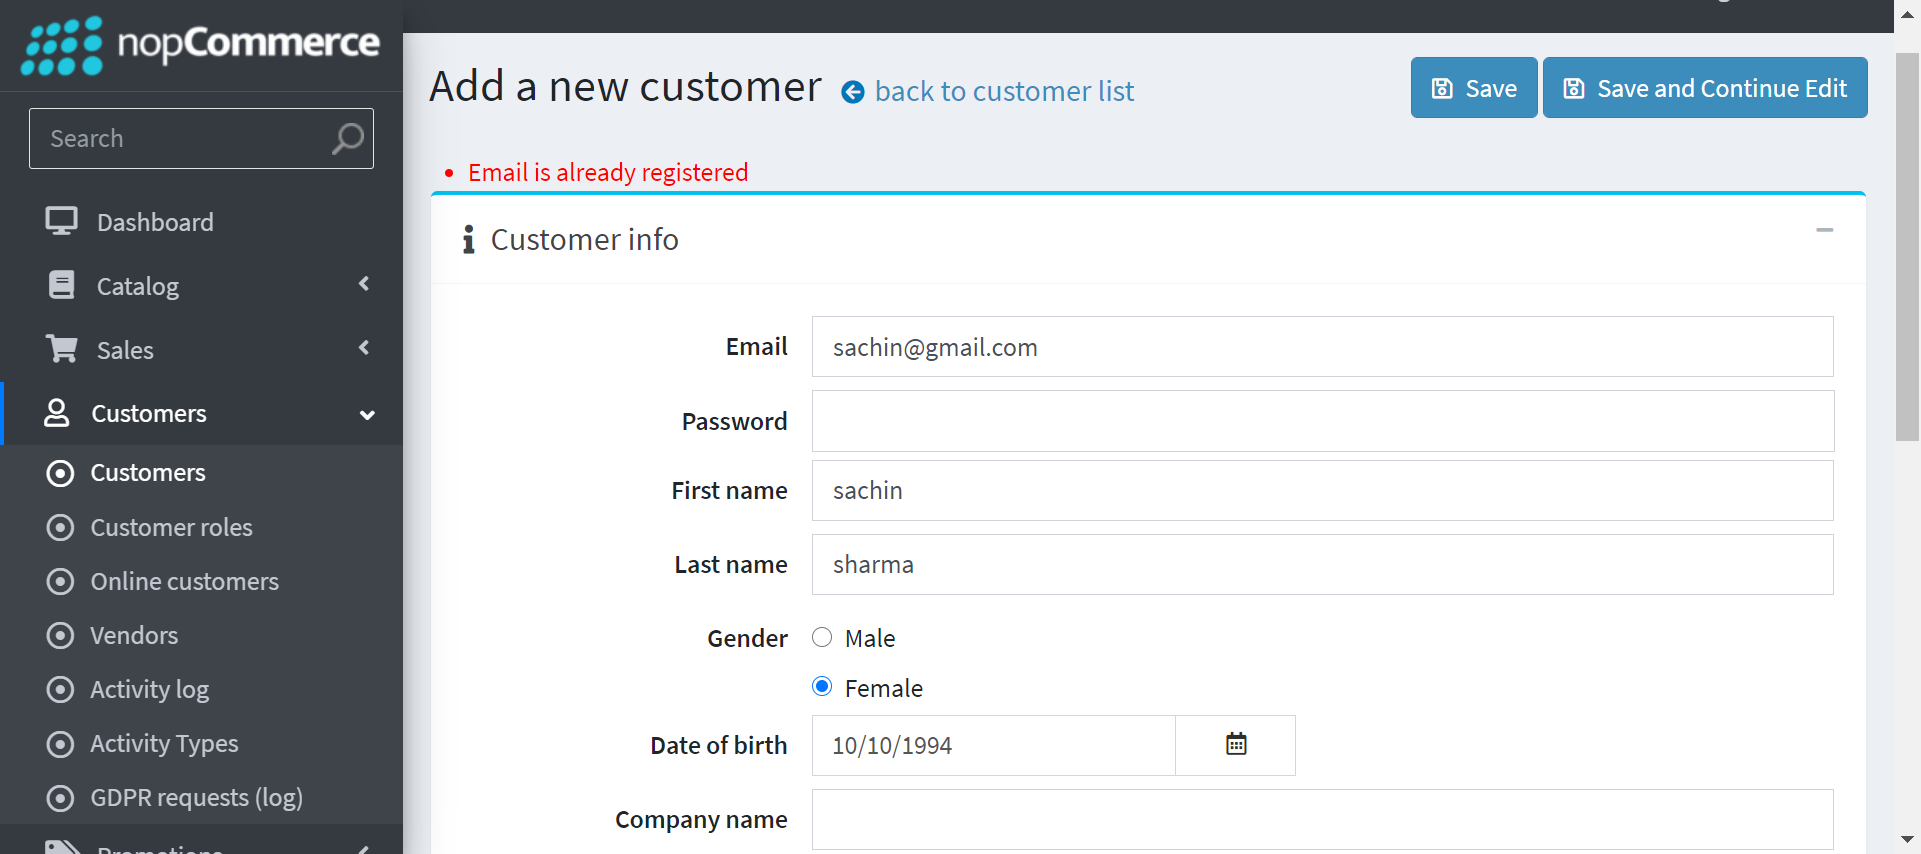
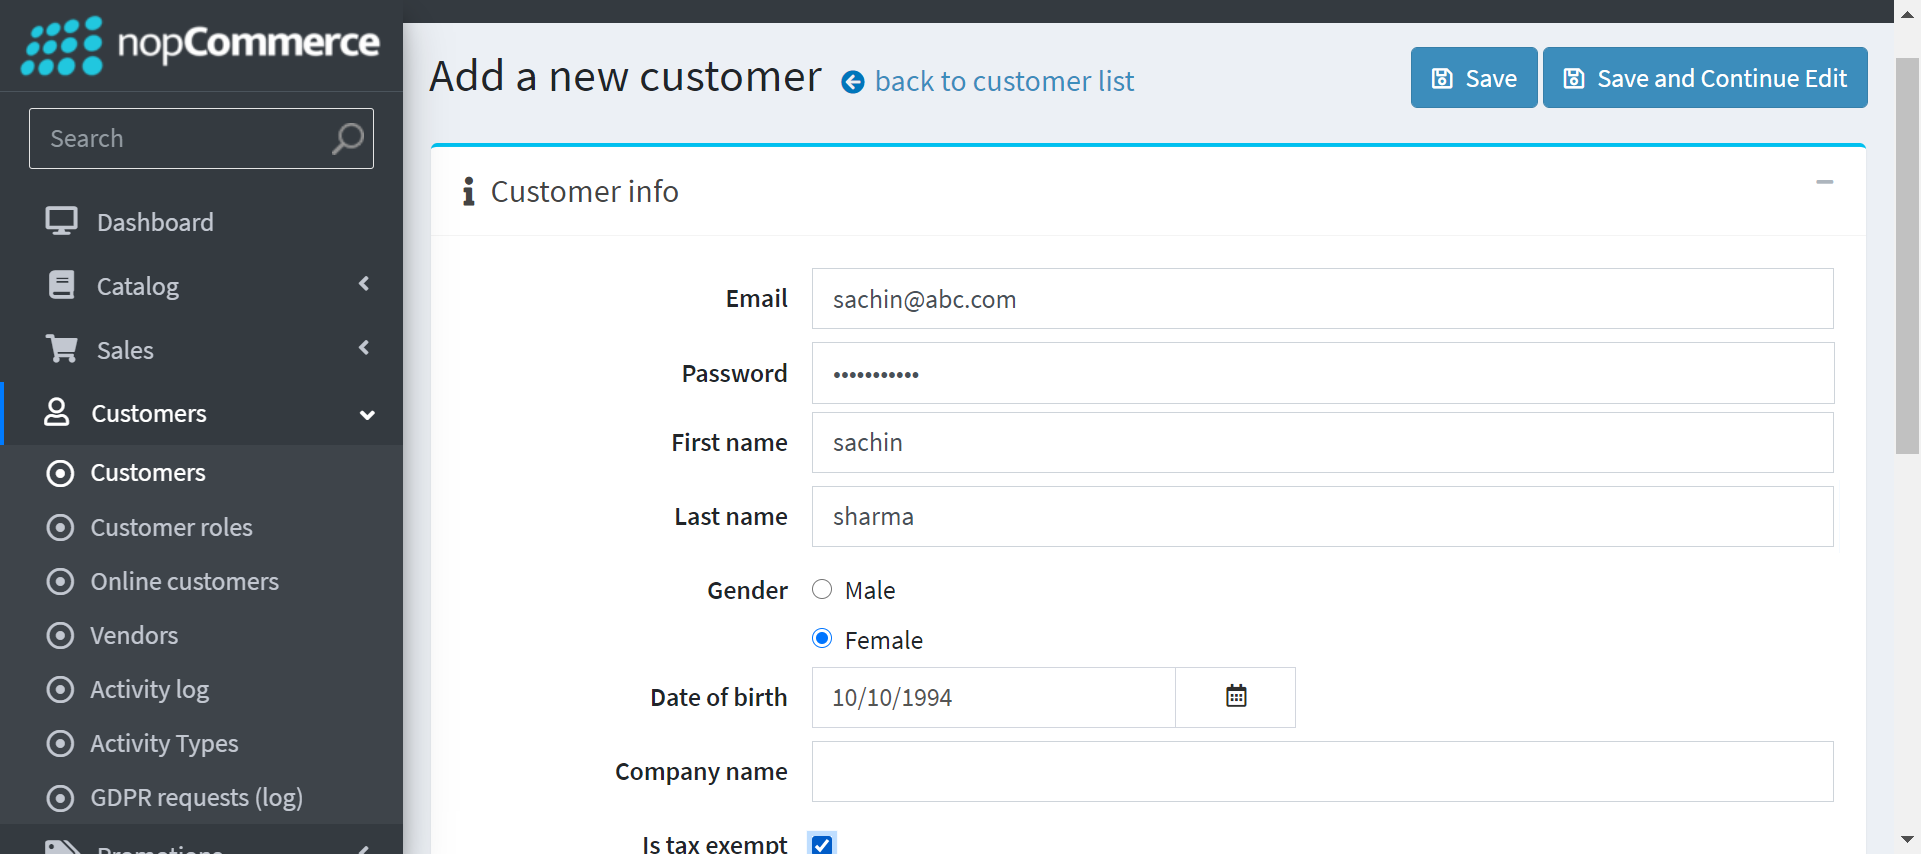
commit

diff --git a/TestCases/test_add_customer.py b/TestCases/test_add_customer.py
@@ -1,37 +1,11 @@
 import pytest
 
 from PageObjects.AddCustomer import AddCustomer
-from PageObjects.LoginPage import LoginPage
-from Testdata.LoginUserData import LoginUserData
 from Testdata.addCustomerdata import addCustomerData
-
 from Utils.BaseFile import BaseClass
 
 
 class TestAddCustomer(BaseClass):
-
-    def test_valid_user_credentials(self, valid_login_Data):
-        log = self.get_Logger("../Logs/loginUser.log")
-        log.info("Navigated to the Base URL:" + self.driver.current_url)
-        login = LoginPage(self.driver)
-        login.setEmail(valid_login_Data["email"])
-        log.info("user has entered email: " + valid_login_Data["email"])
-
-        login.setPassword(valid_login_Data["password"])
-        log.info("user has entered password: " + valid_login_Data["password"])
-
-        login.click_on_submit()
-        log.info("User Clicks On Submit Button")
-        dashboard_url = "https://admin-demo.nopcommerce.com/admin/"
-
-        assert dashboard_url == self.driver.current_url
-        log.info("*************Login ! Successful**************")
-        log.info("*******************Test Case Passed**********")
-
-    @pytest.fixture(params=LoginUserData.ValidLoginCredentials)
-    def valid_login_Data(self, request):
-        return request.param
-
     def test_add_customer(self, add_customer_data):
         log = self.get_Logger("../Logs/addcustomer.log")
         url = "https://admin-demo.nopcommerce.com/Admin/Customer/List"
@@ -39,19 +13,23 @@ class TestAddCustomer(BaseClass):
         log.info("Navigated to the Add Customer URL:" + url)
         ac = AddCustomer(self.driver)
         ac.click_on_addCustomer()
+        log.info("Enter the Customer Details")
+
         ac.enter_email_address(add_customer_data["Email"])
         ac.enter_password(add_customer_data["Password"])
         ac.enter_first_name(add_customer_data["Firstname"])
         ac.enter_last_name(add_customer_data["Lastname"])
-        ac.select_female()
+        ac.select_gender(add_customer_data["Gender"])
         ac.select_dob(add_customer_data["DOB"])
         ac.select_tax_exempt_checkbox(True)
-        ac.click_on_Cusrtomer_role()
-        customer_roles_list = ac.get_customeRoles()
+        ac.click_on_Customer_role()
+        customer_roles_list = ac.get_customerRoles()
         self.click_element_by_getText(customer_roles_list, add_customer_data["customer_role"], log)
         ac.click_on_save_button()
         msg = ac.get_message_on_save()
+        log.info(msg)
         assert "successfully" in msg
+        log.info("*******************Test Case Passed**********")
 
     @pytest.fixture(params=addCustomerData.Customer_data)
     def add_customer_data(self, request):

diff --git a/TestCases/test_Login_User.py b/TestCases/test_Login_User.py
@@ -4,11 +4,16 @@ from PageObjects.LoginPage import LoginPage
 from Testdata.LoginUserData import LoginUserData
 from Utils.BaseFile import BaseClass
 
+login = None
+log = None
 
-class TestLoginPage(BaseClass):
-    @pytest.mark.addcustomer
+
+class TestLoginUser(BaseClass):
+
     @pytest.mark.validuser
-    def test_valid_user_credentials(self, valid_login_Data):
+    def test_login_with_valid_user_credentials(self, valid_login_Data):
+        global login
+        global log
         log = self.get_Logger("../Logs/loginUser.log")
         log.info("Navigated to the Base URL:" + self.driver.current_url)
         login = LoginPage(self.driver)
@@ -25,6 +30,7 @@ class TestLoginPage(BaseClass):
         assert dashboard_url == self.driver.current_url
         log.info("*************Login ! Successful**************")
 
+    def test_logout(self):
         login.click_on_logout()
         log.info("***********Logout! Successful*********************")
         url = "https://admin-demo.nopcommerce.com/"
@@ -32,8 +38,8 @@ class TestLoginPage(BaseClass):
         assert url in self.driver.current_url
         log.info("****************Test Case Passed**************")
 
-    @pytest.mark.invaliduser
-    def test_invalid_user_credentials(self, invalid_login_Data):
+    @pytest.mark.skip
+    def test_login_with_invalid_user_credentials(self, invalid_login_Data):
         log = self.get_Logger("../Logs/loginUser.log")
         log.info("Navigated to the Base URL:" + self.driver.current_url)
 

diff --git a/PageObjects/AddCustomer.py b/PageObjects/AddCustomer.py
@@ -9,6 +9,7 @@ class AddCustomer:
     textbox_Firstname_id = (By.ID, "FirstName")
     textbox_Lastname_id = (By.ID, "LastName")
     radiobutton_genderFemale_id = (By.ID, "Gender_Female")
+    radiobutton_genderMale_id = (By.ID, "Gender_Male")
     textbox_DOB_id = (By.ID, "DateOfBirth")
     textbox_customerRole_CSS = (By.CSS_SELECTOR, ".k-item")
     textbox_cr_XPATH = (By.XPATH, "//input[@aria-labelledby='SelectedCustomerRoleIds_label']")
@@ -37,8 +38,12 @@ class AddCustomer:
     def enter_last_name(self, l_name):
         self.driver.find_element(*AddCustomer.textbox_Lastname_id).send_keys(l_name)
 
-    def select_female(self):
-        self.driver.find_element(*AddCustomer.radiobutton_genderFemale_id).click()
+    def select_gender(self, gender):
+        if gender == "M":
+            self.driver.find_element(*AddCustomer.radiobutton_genderMale_id).click()
+        if gender == "F":
+            self.driver.find_element(*AddCustomer.radiobutton_genderFemale_id).click()
+
 
     def select_dob(self, dob):
         self.driver.find_element(*AddCustomer.textbox_DOB_id).send_keys(dob)

diff --git a/TestCases/test_search_customer.py b/TestCases/test_search_customer.py
@@ -1,0 +1,26 @@
+import pytest
+
+from PageObjects.LoginPage import LoginPage
+from PageObjects.Search import SearchCustomer
+from Testdata.LoginUserData import LoginUserData
+from Testdata.SearchCustomerData import SearchCustomerData
+from Utils.BaseFile import BaseClass
+
+
+class TestSearchCustomers(BaseClass):
+    @pytest.mark.search
+    def test_search_customer_by_email(self, search_customer):
+        log = self.get_Logger("../Logs/search_customer.log")
+        self.driver.get("https://admin-demo.nopcommerce.com/Admin/Customer/List")
+        search = SearchCustomer(self.driver)
+        search.search_by_email(search_customer["email"])
+        search.click_on_search()
+        self.driver.execute_script("window.scrollBy(0,800)")
+        searchlist = search.get_search_list()
+
+        assert self.verify_customer(searchlist, search_customer["email"], log) == True
+        log.info("*******************Test Case Passed**********")
+
+    @pytest.fixture(params=SearchCustomerData.customer_record)
+    def search_customer(self, request):
+        return request.param

diff --git a/Utils/BaseFile.py b/Utils/BaseFile.py
@@ -4,7 +4,7 @@ import logging
 import pytest
 
 
-@pytest.mark.usefixtures("setup")
+@pytest.mark.usefixtures("setup", "login")
 class BaseClass:
 
     def click_element_by_getText(self, values, textvalue, log):
@@ -15,13 +15,13 @@ class BaseClass:
                 value.click()
                 break
 
-    def click_checkbox_by_getAtrribute(self, values, attributeValue, log):
-        log.info("{},{}".format("Length of this List:", len(values)))
-        for value in values:
-            log.info(value.get_attribute("value"))
-            if value.get_attribute("value") == attributeValue:
-                value.find_element_by_xpath(".//following-sibling::div").click()
-                break
+    def verify_customer(self, customer_list, customer, log):
+        log.info("{},{}".format("Length of this List:", len(customer_list)))
+        for c in customer_list:
+            if c.text == customer:
+                return True
+            else:
+                return False
 
     def get_Logger(self, logFilePath):
         loggerName = inspect.stack()[1][3]

diff --git a/PageObjects/Search.py b/PageObjects/Search.py
@@ -1,0 +1,28 @@
+from selenium.webdriver.common.by import By
+
+
+class SearchCustomer:
+    textbox_email_id = (By.ID, "SearchEmail")
+    textbox_Fname_id = (By.ID, "SearchFirstName")
+    textbox_Lname_id = (By.ID, "SearchLastName")
+    button_search_id = (By.ID, "search-customers")
+    table_searchList_xpath = (By.XPATH, "//tr[@class='odd']/td[2]")
+
+    def __init__(self, driver):
+        self.driver = driver
+
+    def search_by_email(self, email):
+        self.driver.find_element(*SearchCustomer.textbox_email_id).send_keys(email)
+
+    def search_by_First_Name(self, f_name):
+        self.driver.find_element(*SearchCustomer.textbox_Fname_id).send_keys(f_name)
+
+    def search_by_Last_Name(self, l_name):
+        self.driver.find_element(*SearchCustomer.textbox_Lname_id).send_keys(l_name)
+
+    def click_on_search(self):
+        self.driver.find_element(*SearchCustomer.button_search_id).click()
+
+    def get_search_list(self):
+        return self.driver.find_elements(*SearchCustomer.table_searchList_xpath)
+

diff --git a/Testdata/addCustomerdata.py b/Testdata/addCustomerdata.py
@@ -1,8 +1,8 @@
 class addCustomerData:
     Customer_data = \
         [
-            {"Email": "sachin@abc.com", "Password": "sachin@1234", "Firstname": "sachin", "Lastname": "sharma",
-             "DOB": "10/10/1994", "customer_role": "Guests123"},
-            {"Email": "sachin@xyz.com", "Password": "12345qwer", "Firstname": "amar", "Lastname": "sharma",
-             "DOB": "10/05/2001", "customer_role": "Guests123"}
+            {"Email": "ram@abc.com", "Password": "sachin@1234", "Firstname": "sachin", "Lastname": "sharma",
+             "DOB": "10/10/1994", "customer_role": "Guests123", "Gender": "M"},
+            {"Email": "Seeta@xyz.com", "Password": "12345qwer", "Firstname": "amar", "Lastname": "sharma",
+             "DOB": "10/05/2001", "customer_role": "Guests123", "Gender": "F"}
         ]

diff --git a/TestCases/conftest.py b/TestCases/conftest.py
@@ -33,6 +33,14 @@ def setup(request):
     yield
 
 
+@pytest.fixture(scope="class")
+def login():
+    driver.find_element_by_id("Email").clear()
+    driver.find_element_by_id("Email").send_keys("admin@yourstore.com")
+    driver.find_element_by_id("Password").clear()
+    driver.find_element_by_id("Password").send_keys("admin")
+    driver.find_element_by_css_selector("button[type='submit']").click()
+
 
 @pytest.mark.hookwrapper
 def pytest_runtest_makereport(item):
@@ -60,6 +68,3 @@ def pytest_runtest_makereport(item):
 def _capture_screenshot(name):
     file_path = "../Reports/"
     driver.get_screenshot_as_file(file_path + name)
-
-
-

diff --git a/PageObjects/Edit.py b/PageObjects/Edit.py
@@ -1,0 +1,5 @@
+from selenium.webdriver.common.by import By
+
+
+class EditCustomerDetails:
+    button_Edit_Xpath=(By.XPATH,"//a[contains(@href,'Edit')]")

diff --git a/Testdata/SearchCustomerData.py b/Testdata/SearchCustomerData.py
@@ -1,0 +1,2 @@
+class SearchCustomerData:
+    customer_record = [{"email": "admin@yourStore.com"}]
